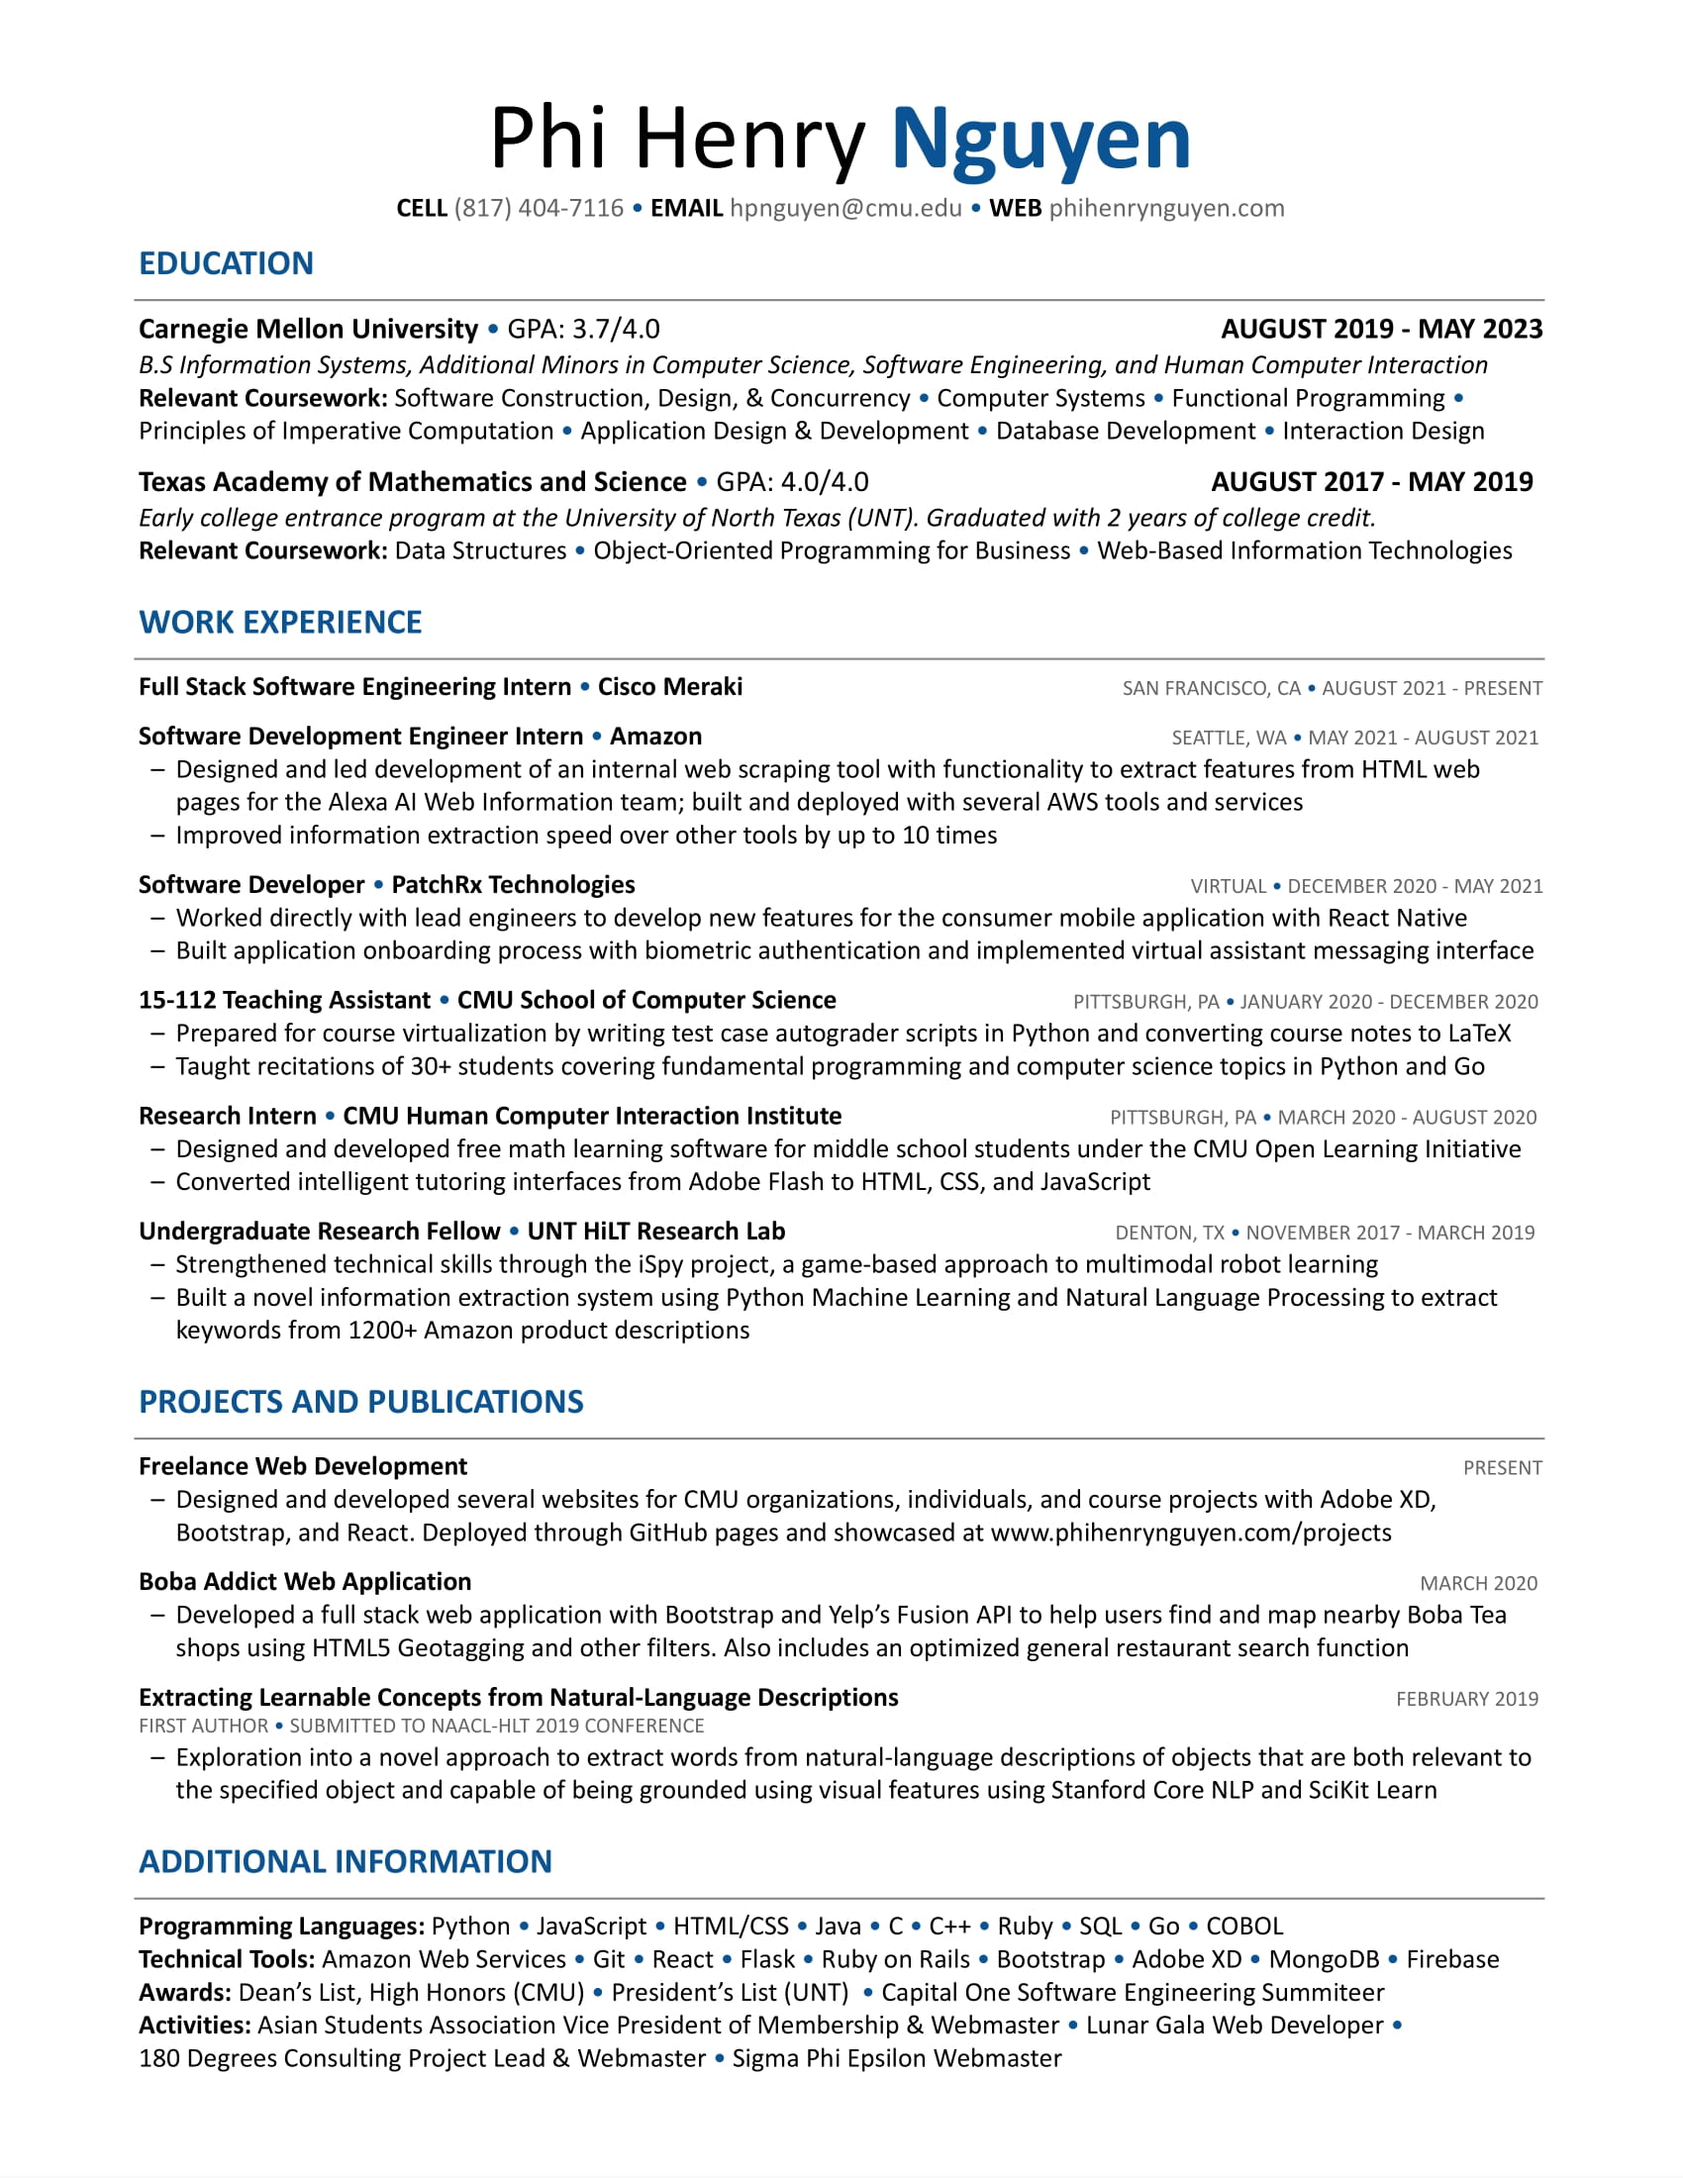
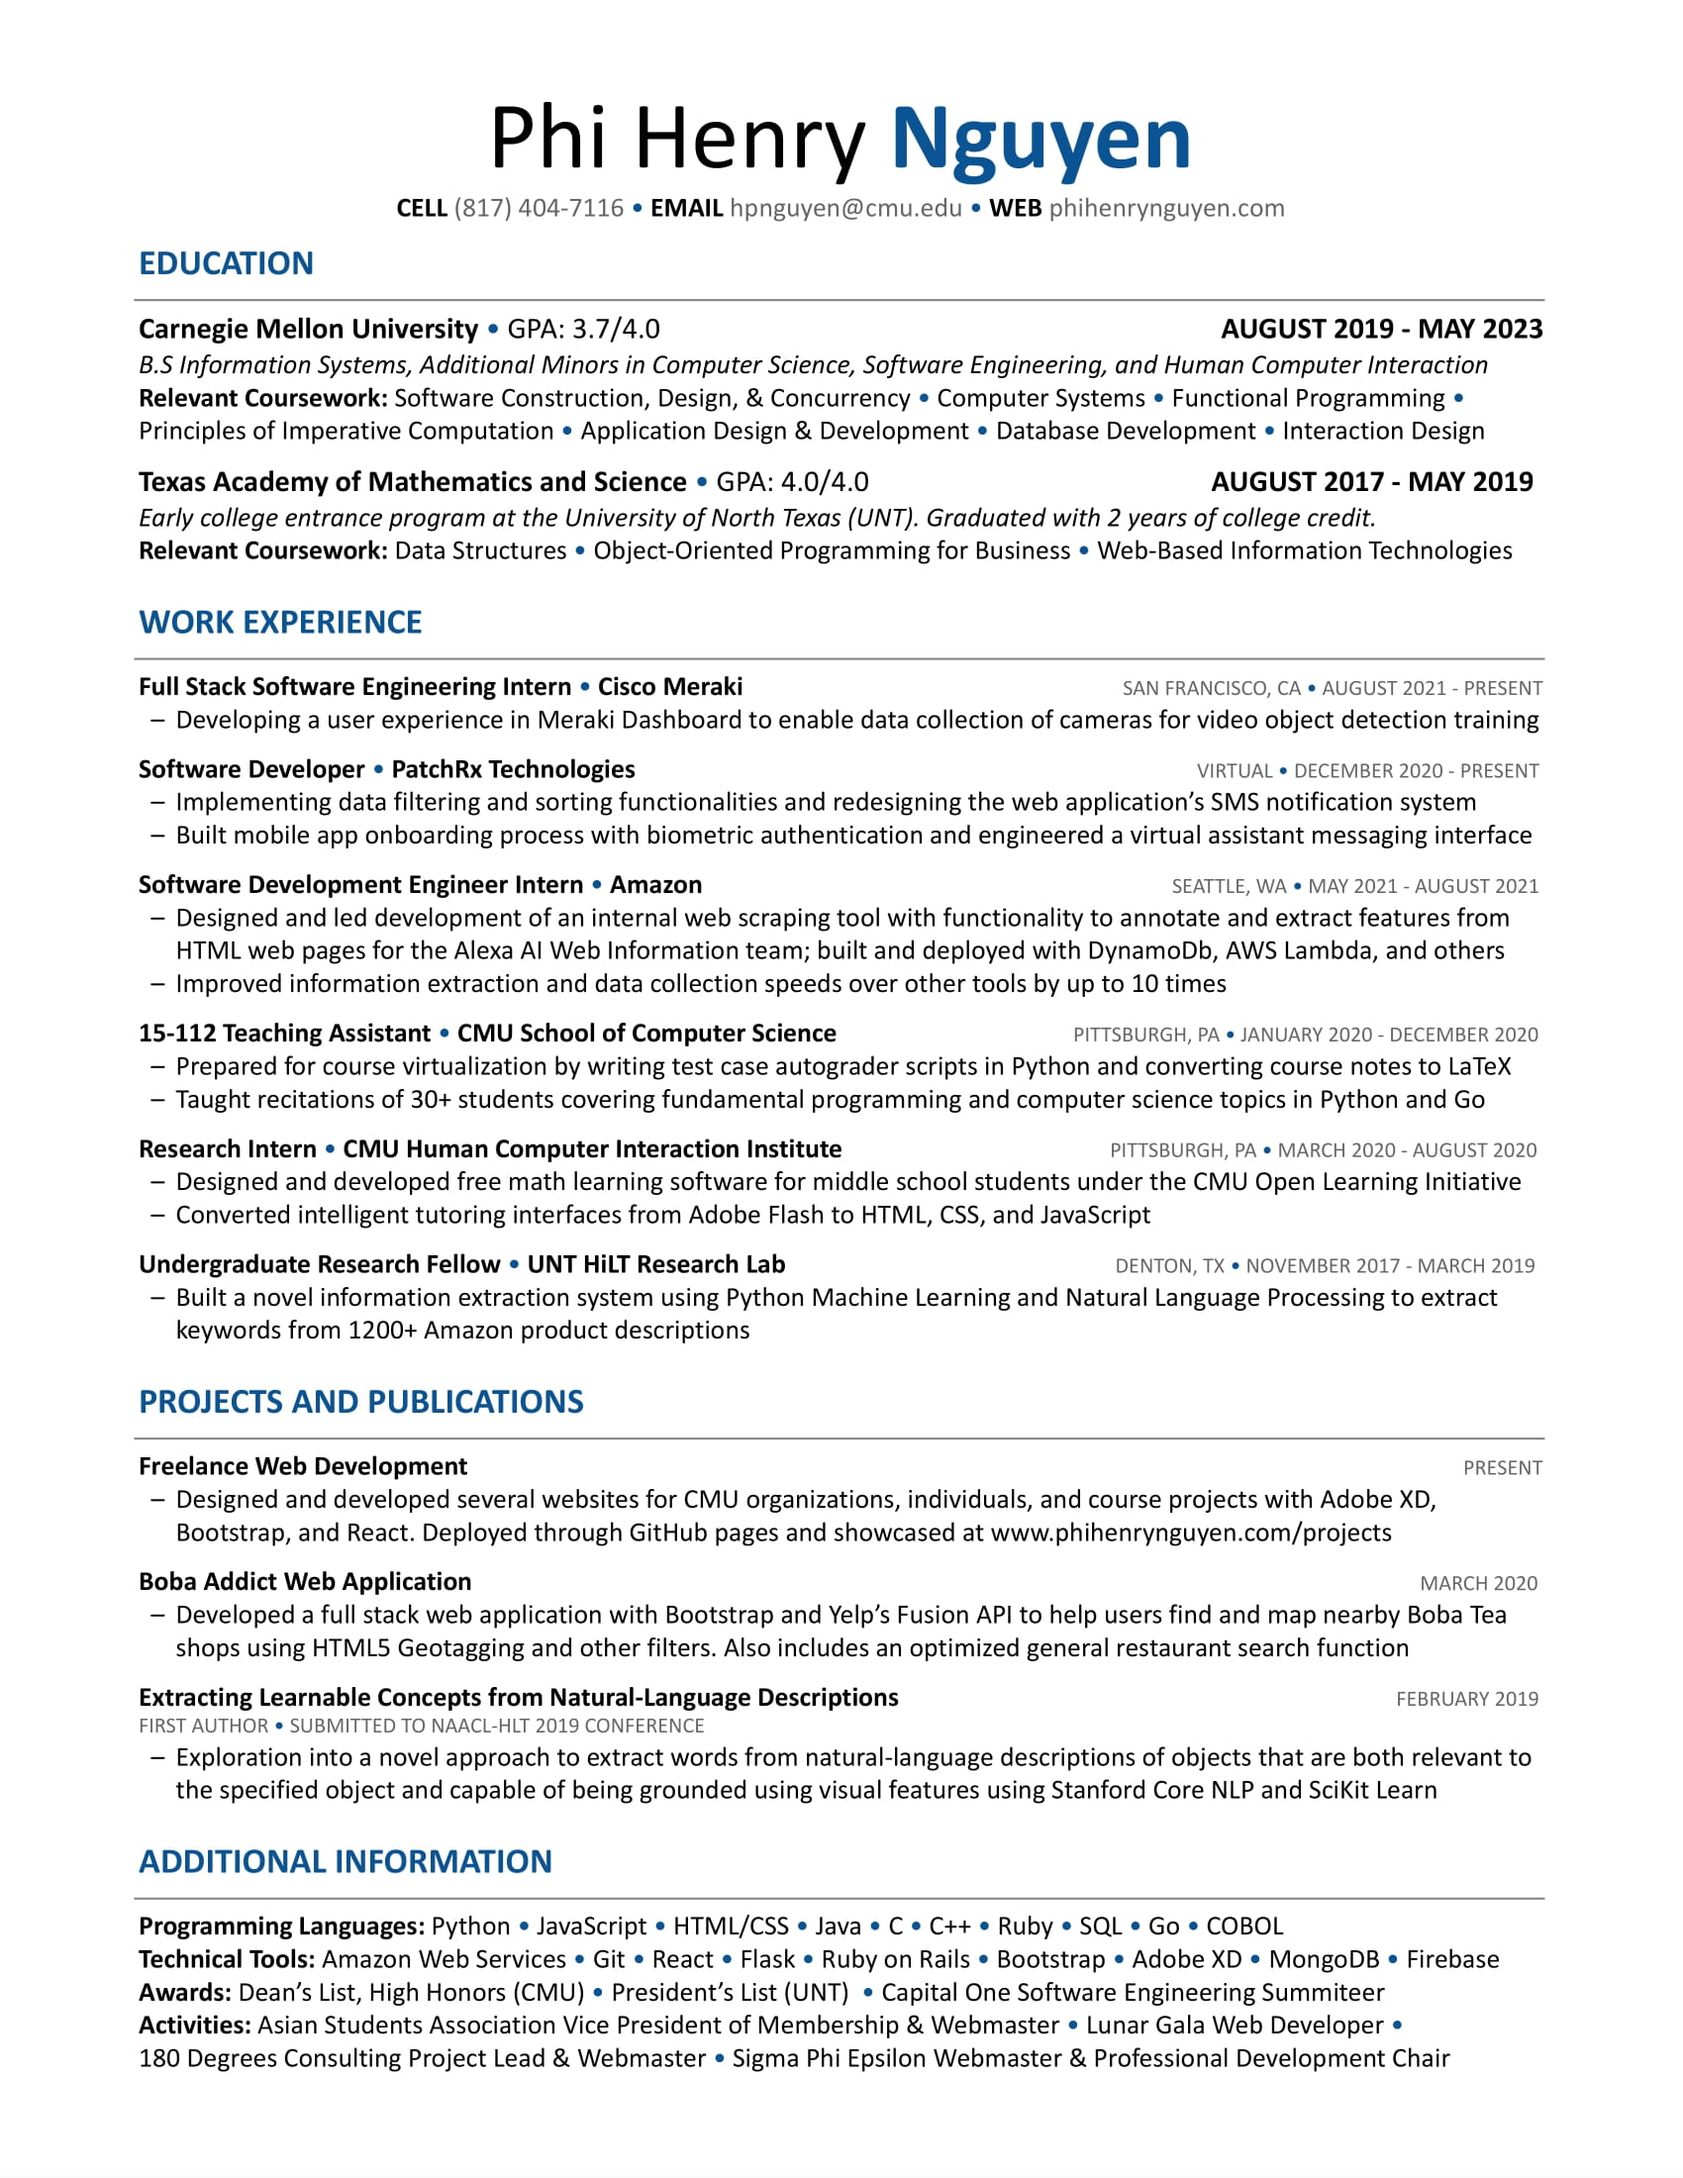
updated resume

Changed region(s): [[0.0624, 0.3091, 0.9041, 0.5873], [0.6547, 0.9273, 0.8418, 0.9582]]

diff --git a/about.html b/about.html
@@ -105,7 +105,7 @@
 				<a href="https://lunargala.org/" target="_blank" rel="noopener">Lunar Gala</a>,
 				a consultant and webmaster for
 				<a href="https://cmu180dc.org/" target="_blank" rel="noopener">180 Degrees Consulting</a>,
-				and a member of
+				and a professional development chair of
 				<a href="https://www.sigep.fun/" target="_blank" rel="noopener">Sigma Phi Epsilon</a>.
 			</p>
 			<p class="text-justify mx-md-5">
